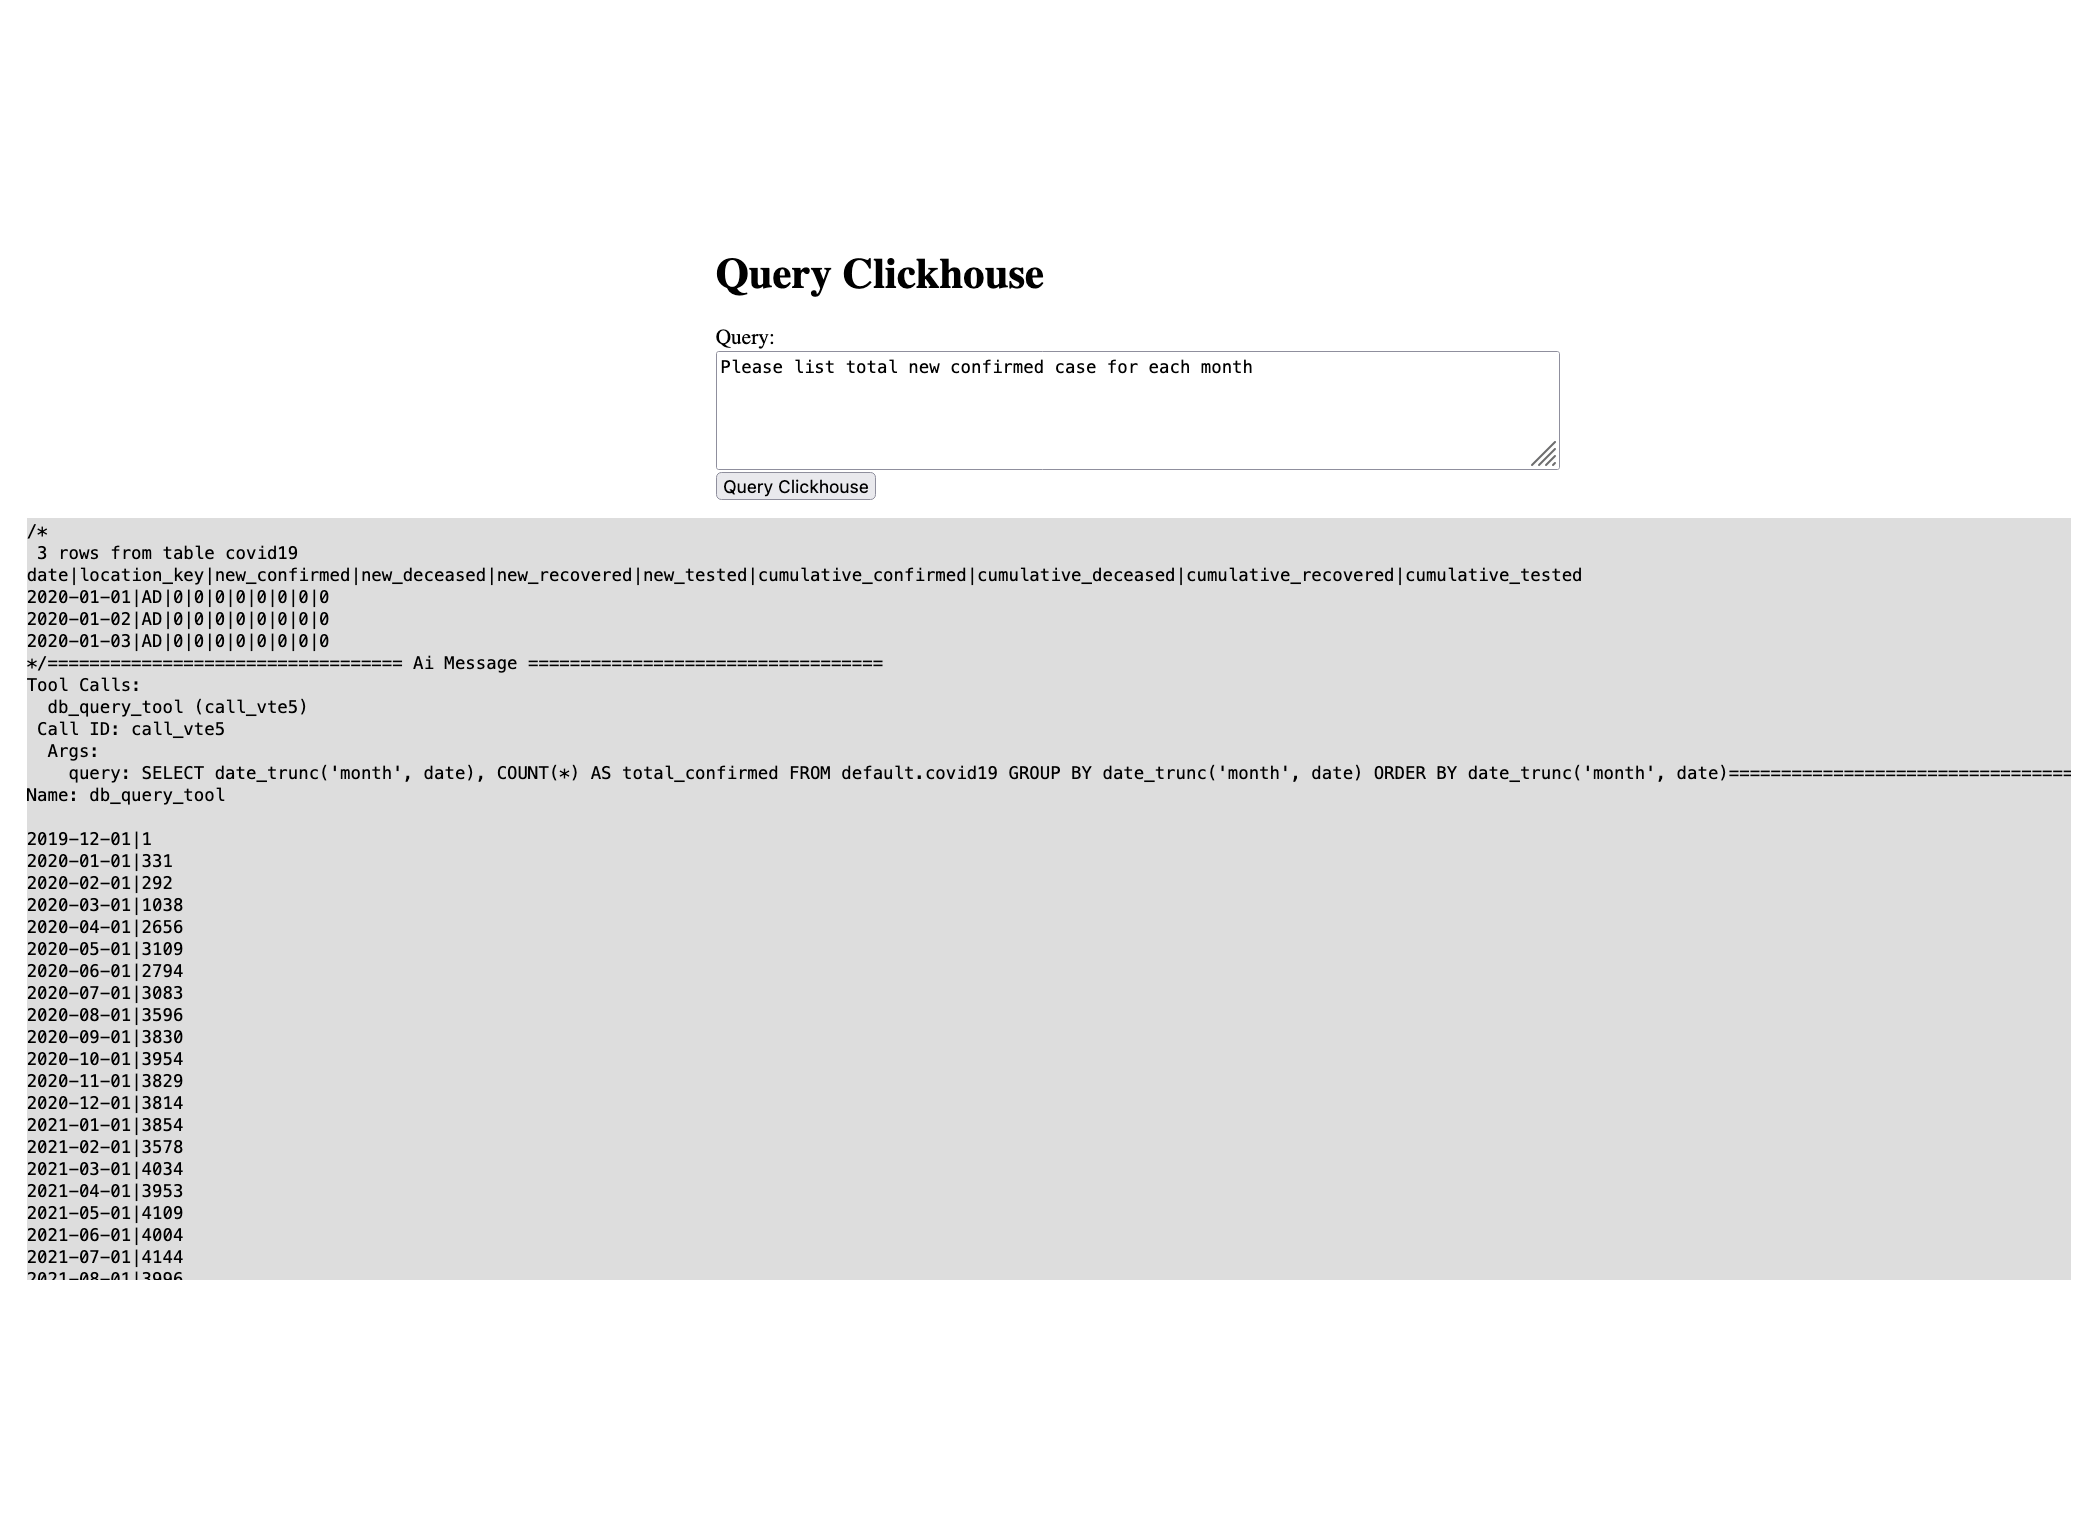
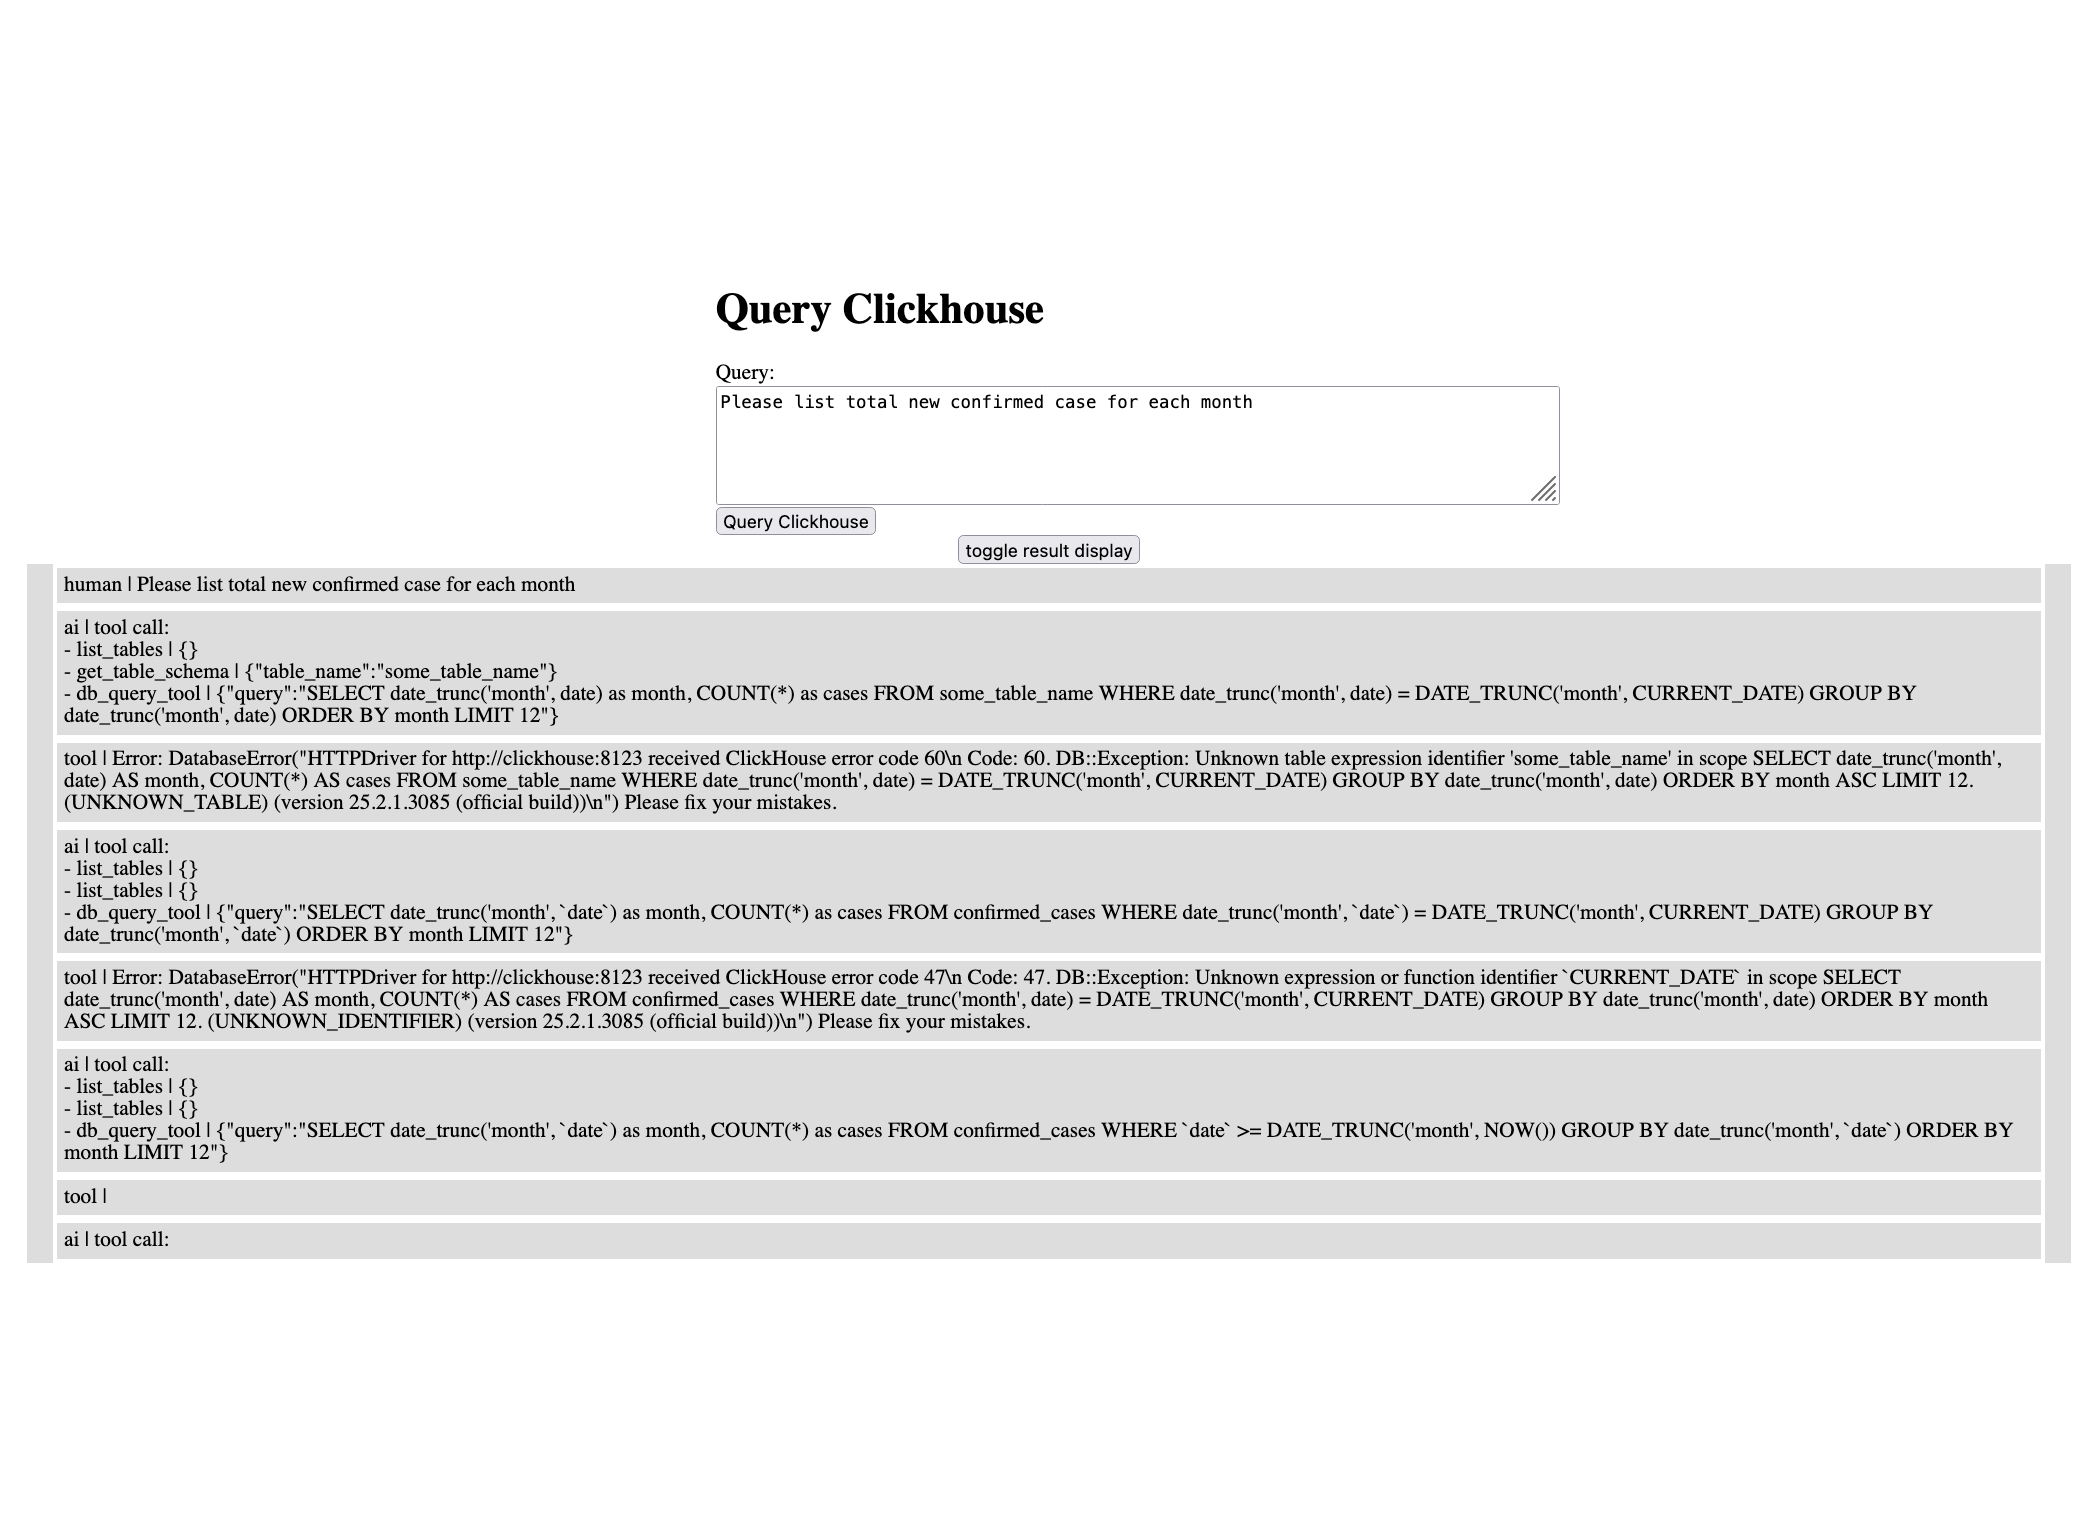
change return format into EventSource format, use starlette

Changed region(s): [[0.0, 0.3082, 0.9914, 0.863], [0.3408, 0.1541, 0.5887, 0.2774]]

diff --git a/static/index.html b/static/index.html
@@ -16,11 +16,18 @@
             box-sizing: border-box;
         }
 
-        #result {
+        .result {
             background:#ddd;
             width:100%;
             overflow: scroll;
             max-height:50vh;
+        }
+
+        span.response {
+            border: 3px solid #fff;
+            padding: 5px;
+            margin: 0 20px;
+            display: block;
         }
     </style>
 </head>
@@ -36,15 +43,20 @@
             <button type="submit">Query Clickhouse</button>
         </form>
     </main>
-    <pre id="result"></pre>
+    <button id="toggle_result">toggle result display</button>
+    <div class="result" id="result" style="display:block"></div>
+    <pre class="result" id="result_raw" style="display:none"></pre>
 
     <script>
+        const resultRawDiv = document.getElementById('result_raw');
+        const resultDiv = document.getElementById('result');
+
         document.getElementById('queryDbForm').addEventListener('submit', async function(e) {
             e.preventDefault();
             
             const db_query = document.getElementById('db_query').value;
             
-            const resultDiv = document.getElementById('result');
+            resultRawDiv.textContent = '';
             resultDiv.textContent = '';
             
             // Prepare the data as JSON
@@ -80,12 +92,41 @@
                     
                     // Decode and display the chunk
                     const text = decoder.decode(value, { stream: true });
-                    resultDiv.textContent += text;
+                    resultRawDiv.textContent += text;
+
+                    // manually parse eventSource object
+                    let eventItem = {}
+                    text.split("\n").filter(Boolean).map(
+                        (s) => {
+                            var i = s.indexOf(':');
+                            var key = s.slice(0, i).trim();
+                            var val = s.slice(i + 1, s.length).trim();
+
+                            eventItem[key] = val
+                        }
+                    )
+
+                    eventItem.data = JSON.parse(eventItem.data)
+
+                    let content = eventItem.event + " | ";
+                    if (eventItem.data.tool) {
+                        content += " tool call:<br/>";
+                        eventItem.data.tool.map((t) => { content += `- ${t.name} | ${JSON.stringify(t.args)}<br/>` })
+                    } else {
+                        content += eventItem.data.content + "\n";
+                    }
+                    
+                    resultDiv.innerHTML += `<span class="response">${content}</span>`
                 }
             } catch (error) {
                 console.error('Error:', error);
                 resultDiv.textContent = 'An error occurred while fetching the poem.';
             }
+        });
+
+        document.getElementById('toggle_result').addEventListener('click', function(e) {
+            resultDiv.style.display = (resultDiv.style.display != 'none') ? 'none' : 'block' 
+            resultRawDiv.style.display = (resultRawDiv.style.display != 'none') ? 'none' : 'block' 
         });
     </script>
 </body>

diff --git a/clickhouse.py b/clickhouse.py
@@ -13,8 +13,6 @@ import clickhouse_connect
 def get_client():
     return clickhouse_connect.get_client(host=CLICKHOUSE_HOST, username=CLICKHOUSE_USER, password=CLICKHOUSE_PASSWORD)
 
-from langchain_core.tools import tool
-
 def join_query_row(result, separator='|'):
     return separator.join(map(str, result))
 
@@ -24,7 +22,6 @@ def join_query_results(result, col_separator='|', row_separator="\n"):
     ])
 
 # lanchain tools based on tutorial in: https://langchain-ai.github.io/langgraph/tutorials/sql-agent/#define-tools-for-the-agent
-@tool
 def list_tables() -> str:
     """
     Get list of available tables inside database
@@ -33,10 +30,9 @@ def list_tables() -> str:
     res = client.query('SHOW tables');
     return join_query_row(res.result_rows[0])
 
-@tool
 def get_table_schema(table_name: str) -> str:
     """
-    Retrieve SQL schema of the provide table_name
+    Retrieve SQL schema of the provided table_name + 3 sample table contents
     """
     client = get_client()
     # get create query
@@ -51,7 +47,6 @@ def get_table_schema(table_name: str) -> str:
 
     return final_res
 
-@tool
 def db_query_tool(query: str) -> str:
     """
     Execute a SQL query against the database and get back the result.
@@ -65,6 +60,6 @@ def db_query_tool(query: str) -> str:
     return join_query_results(result.result_rows)
 
 if __name__ == '__main__':
-    print(list_tables.invoke(''))
-    print(get_table_schema.invoke('covid19'))
-    print(db_query_tool.invoke("SELECT formatReadableQuantity(count()) FROM covid19"))
+    print(list_tables())
+    print(get_table_schema('covid19'))
+    print(db_query_tool("SELECT formatReadableQuantity(count()) FROM covid19"))

diff --git a/main.py b/main.py
@@ -1,9 +1,12 @@
 # start webserver
-from fastapi import FastAPI
+import asyncio
+import json
+from fastapi import FastAPI, Request
 from fastapi.staticfiles import StaticFiles
 from fastapi.responses import (
     StreamingResponse,
 )
+from sse_starlette.sse import EventSourceResponse
 from pydantic import BaseModel
 from asyncio import sleep
 from .llm import create_poem_single, create_poem_stream, query_llm_clickhouse
@@ -26,7 +29,21 @@ async def chat(chat: PoemChat):
     return StreamingResponse(create_poem_stream(chat.line_number, chat.text), media_type="text/event-stream")
 
 @app.post("/query_clickhouse")
-async def chat(chat: DbQueryChat):
-    return StreamingResponse(query_llm_clickhouse(chat.query), media_type="text/event-stream")
+async def chat(chat: DbQueryChat, request: Request):
+    async def generate_response():
+        for event in query_llm_clickhouse(chat.query):
+            # If client was closed the connection
+            if await request.is_disconnected():
+                break
+
+            yield {
+                "event": event.type,
+                "data": json.dumps({
+                    "tool": getattr(event, 'tool_calls', None),
+                    "content": event.content,
+                }),
+            }
+
+    return EventSourceResponse(generate_response())
 
 app.mount("/", StaticFiles(directory="static",html = True), name="static")

diff --git a/llm.py b/llm.py
@@ -50,9 +50,14 @@ sql_system_message = sql_prompt_template.format(dialect="Clickhouse", top_k=5)
 
 # initialize agent
 from langgraph.prebuilt import create_react_agent
+from langchain_core.tools import StructuredTool
 from .clickhouse import list_tables, get_table_schema, db_query_tool
 
-tools = [ list_tables, get_table_schema, db_query_tool ]
+tool_functions = [ list_tables, get_table_schema, db_query_tool ]
+tools = [
+    StructuredTool.from_function(func=f)
+    for f in tool_functions
+]
 agent_executor = create_react_agent(model, tools, prompt=sql_system_message)
 
 def query_llm_clickhouse(question):
@@ -60,7 +65,7 @@ def query_llm_clickhouse(question):
         {"messages": [{"role": "user", "content": question}]},
         stream_mode="values",
     ):
-        yield step["messages"][-1].pretty_repr()
+        yield step["messages"][-1]
 
 if __name__ == '__main__':
     question = "Please list total new confirmed case for each month"

diff --git a/README.md b/README.md
@@ -3,6 +3,11 @@ Experiment With LLM
 
 My learning on technology around LLM
 
+## Components
+- main.py : main webserver files a.k.a the http handler/controller
+- llm.py : contains all LLM-related code, including all LangGraph agent setup
+- clickhouse.py : contains Clickhouse connection setup, provide basic tools to be consumed by llm.py as LLM Agent tool
+
 ## progress on 2025-03-10
 
 ![ClickhouseBot Screenshot](misc/screenshot-clickhouse.png?raw=true "ClickhouseBot Screenshot")
@@ -27,7 +32,7 @@ My learning on technology around LLM
     - FastAPI for web frameworks
     - the frontend is using vanilla javascript with Server-Sent Event for streaming response
 
-### how to use
+## how to use
 
 1. clone this repo
 2. edit `.env.example` into `.env` & edit accordingly (especially the API key)
